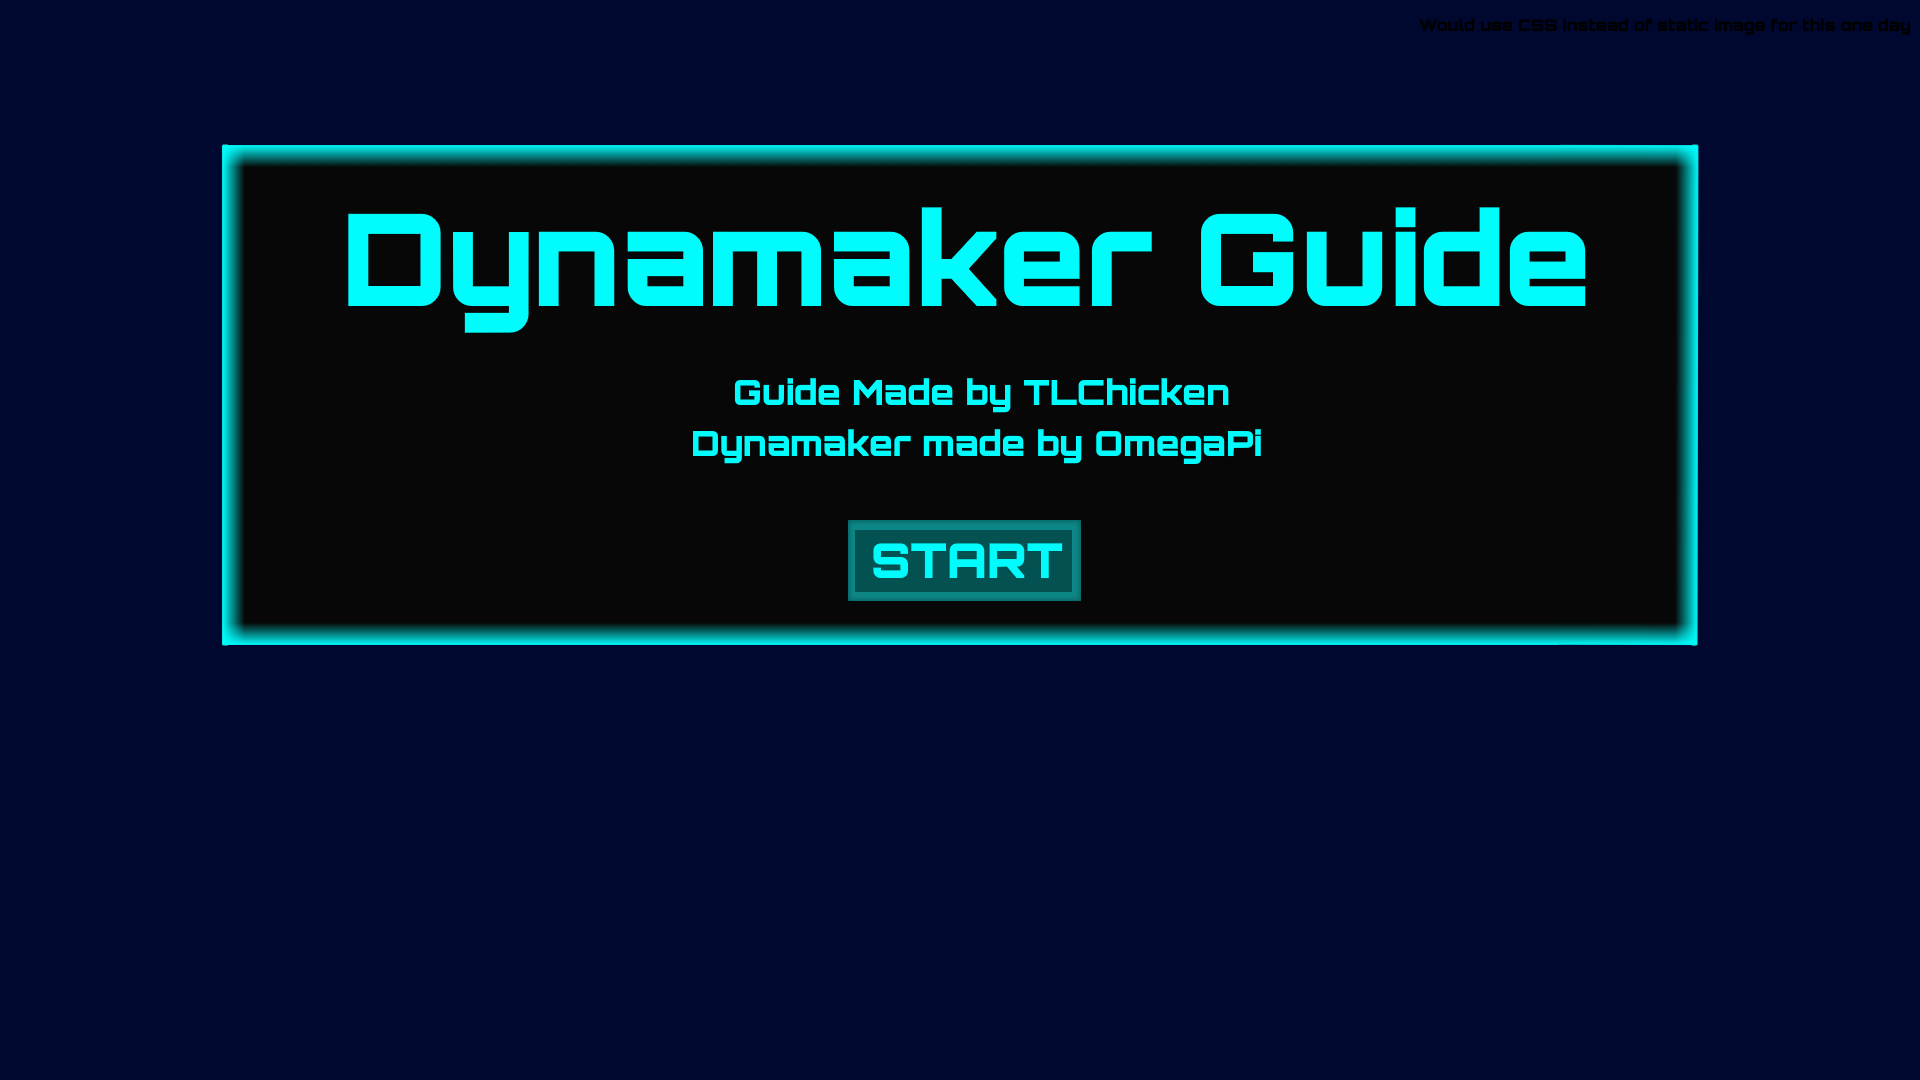
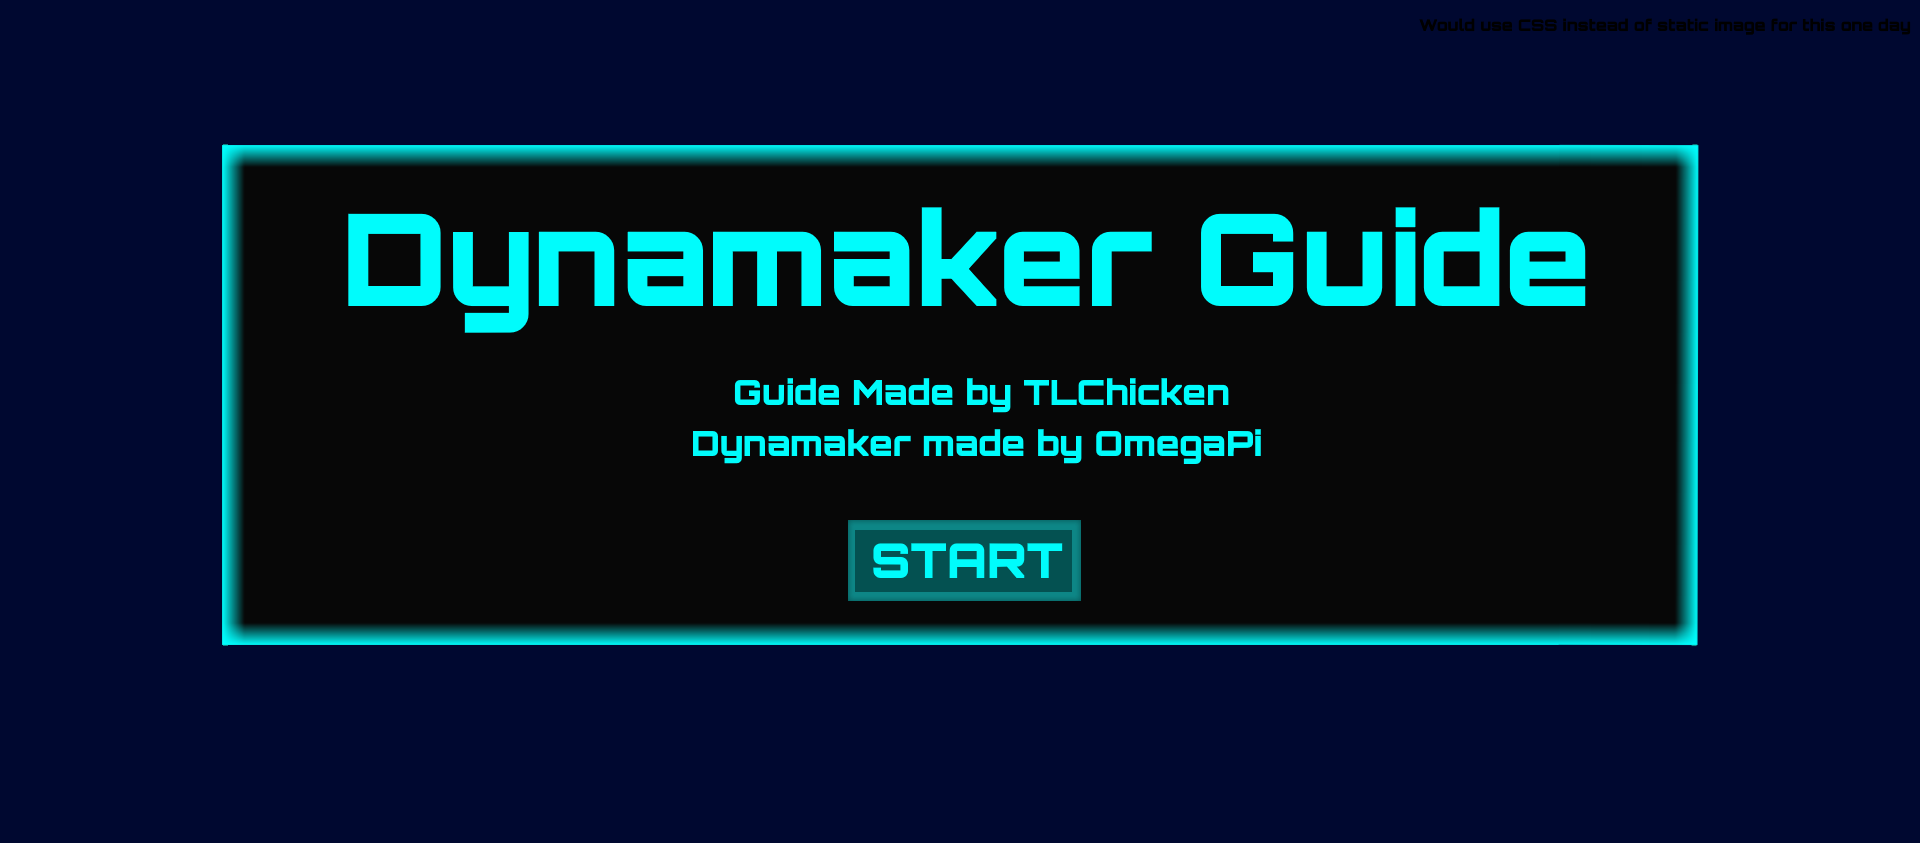
Site - Fixed some Fonts
Changed Orbitron font to Orbitron Black

Changed region(s): [[0.0938, 0.1234, 0.9062, 0.7711], [0.75, 0.0, 1.0, 0.0617]]

diff --git a/index.html b/index.html
@@ -4,7 +4,7 @@
 <head>
 	<style type="text/css">
 		body {
-			background-color: #000000;
+			background-color: #000830;
 		}
 
 		.mainCont {
@@ -15,7 +15,7 @@
 
 		.startButtonCont {
 			position: absolute;
-			top: 52%;
+			top: 66.5%;
 			left: 50.2%;
 			transform: translate(-50%, -50%);
 			font-size: 20;
@@ -43,7 +43,7 @@
 		.startButton:hover {
 			background-color: #00FCFC;
 			color: #FFFFFF;
-			font-family: "OrbitronBold";
+			font-family: "Orbitron Black";
 		}
 
 	</style>

diff --git a/generalStyle.css b/generalStyle.css
@@ -19,12 +19,12 @@
 }
 
 @font-face {
-  font-family: "Orbitron";
-  src: url("Orbitron.otf");
+  font-family: "Orbitron Black";
+  src: url("Orbitron-Black.ttf");
 }
 
 .OrbitronTxtContainer {
-	font-family: Orbitron;
+	font-family: Orbitron Black;
 }
 
 .DynamixTxtContainer {
